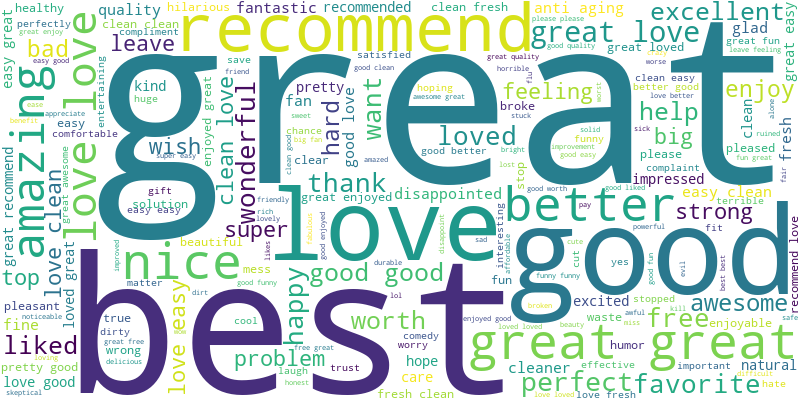
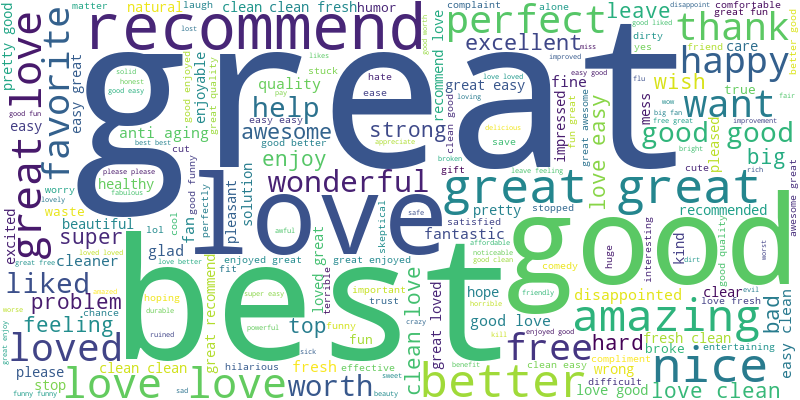
je sais as

diff --git a/web_masterC-2/templates/result.html b/web_masterC-2/templates/result.html
@@ -39,10 +39,10 @@
            
             
             <h3>Word Cloud - Affin</h3>
-            <img src="{{ url_for('static', filename='wordcloud_affin.png') }}" alt="Word Cloud">
+            <img src="{{ url_for('static', filename='wordcloud_affin.png') }}" alt="Word Cloud" class = "wordcloud">
             
-            <h3>Word Cloud - Word Cloud </h3>
-            <img src="{{ url_for('static', filename='wordcloud_all.png') }}" alt="Word Cloud">
+            <h3>Word Cloud - Stop Word </h3>
+            <img src="{{ url_for('static', filename='wordcloud_all.png') }}" alt="Word Cloud" class = "wordcloud">
             
           </div>
   

diff --git a/web_masterC-2/static/styles.css b/web_masterC-2/static/styles.css
@@ -207,3 +207,7 @@ body {
 
 
 
+.wordcloud{
+display: flex ;
+justify-content: center;
+}
